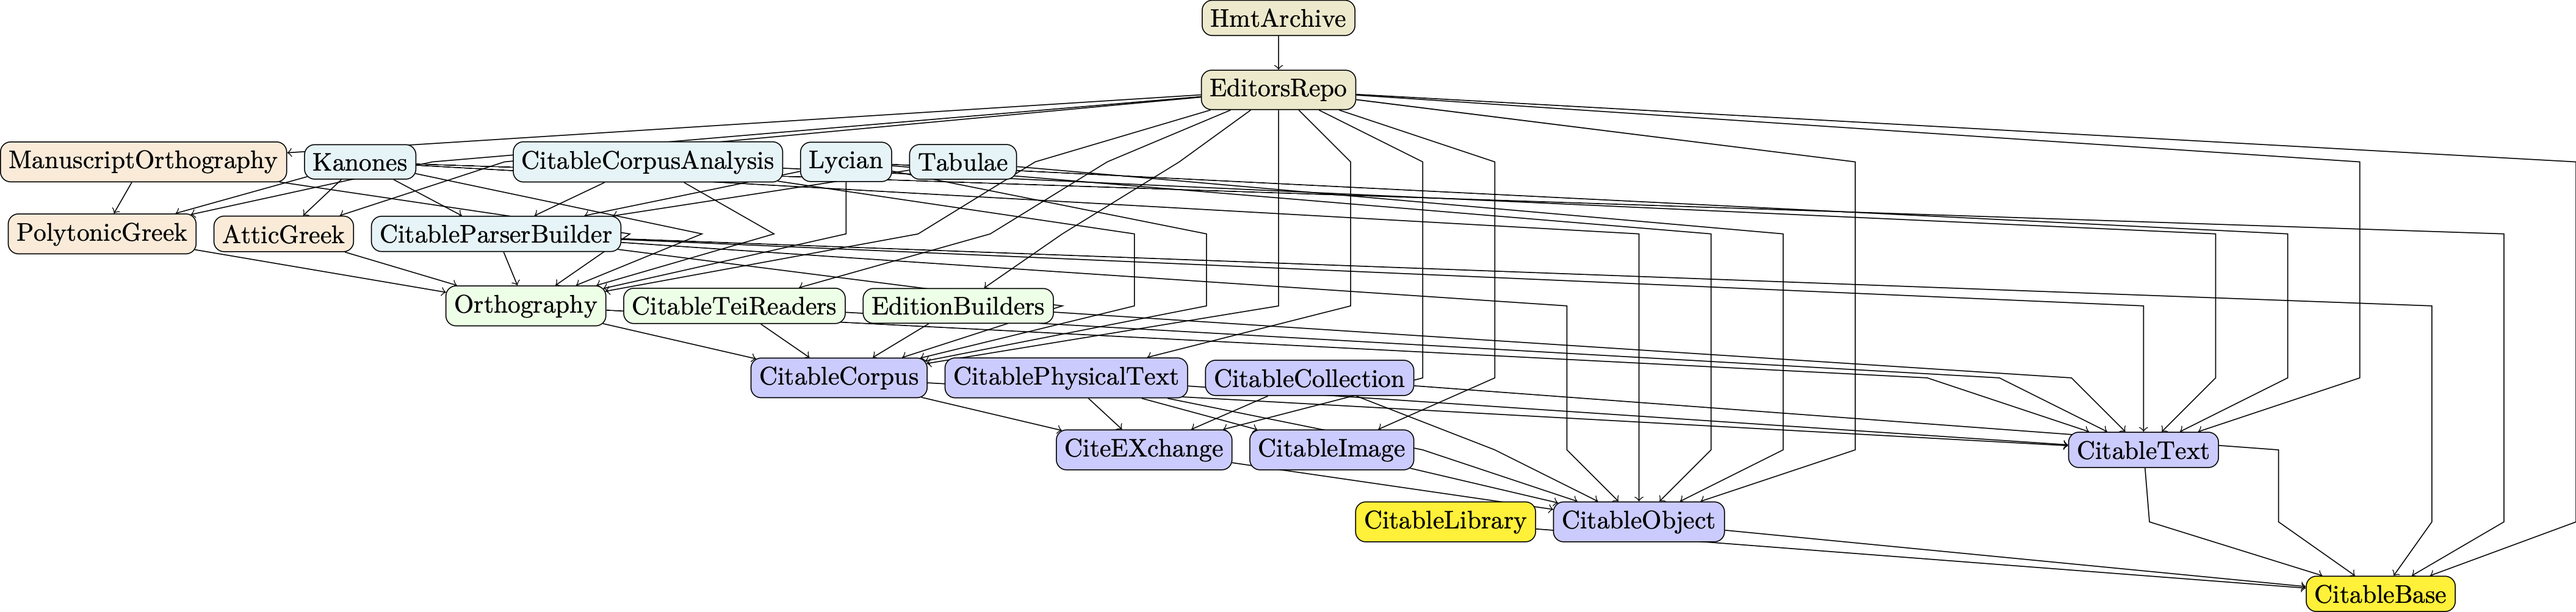
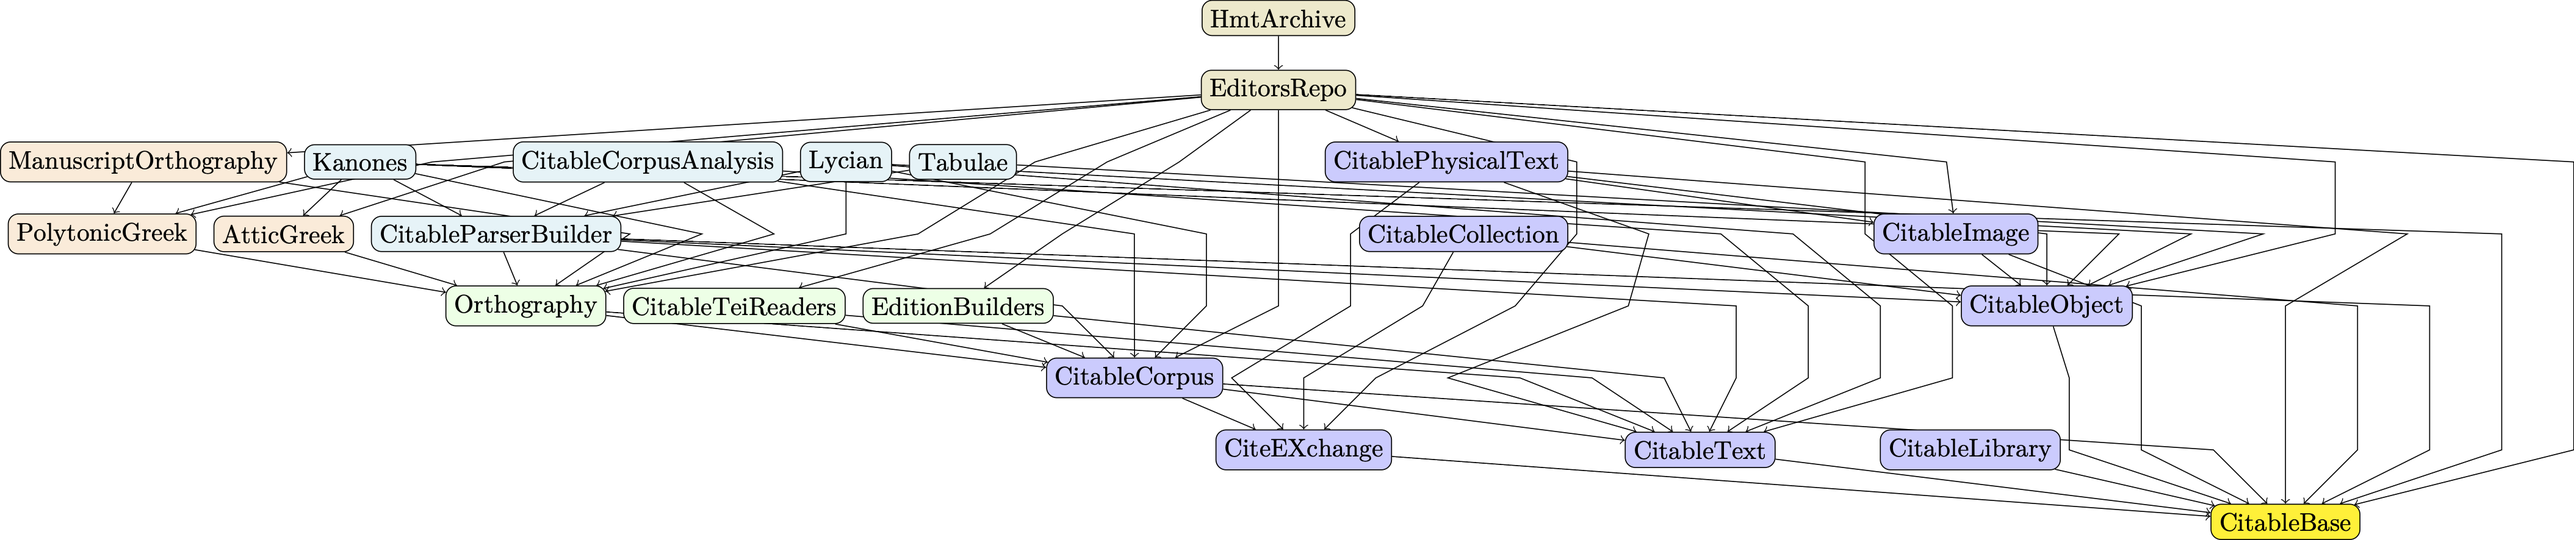
Regularize file names

Changed region(s): [[0.0, 0.0, 1.0, 1.0], [0.8696, 0.64, 0.9007, 0.6704]]

diff --git a/README.md b/README.md
@@ -4,9 +4,11 @@
 
 Images on this page are linked to full-size PNGs.
 
+Directed edges indicate dependency.  For types, the dependency is conceptual; for packages, the dependency is a literal code dependency specified in `Project.toml`.
+
 ## Julia types for CITE concepts
 
-[![CITE concepts](graphs/cite-concepts.png)](graphs/cite-concepts.png)
+[![CITE concepts](graphs/concepts.png)](graphs/cite-concepts.png)
 
 > color key:
 >
@@ -14,6 +16,7 @@ Images on this page are linked to full-size PNGs.
 
 
 ## Julia packages
+
 
 
 [![Julia packages](graphs/packages.png)](graphs/packages.png)
@@ -31,14 +34,14 @@ Requires Julia 1.7.  Set `project` parameter to point to the root directory of t
 Generate graph of Julia types for key CITE concepts and color key:
 
 ```
-julia --project=. cite.jl
-julia --project=. citecolorkey.jl
+julia --project=. concepts.jl
+julia --project=. concepts-colorkey.jl
 ```
 
 
 Generate graph of Julia modules and color key:
 
 ```
-julia --project=. modules.jl
-julia --project=. modulescolorkey.jl
+julia --project=. packages.jl
+julia --project=. packages-colorkey.jl
 ```
